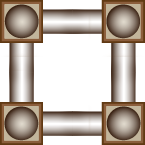
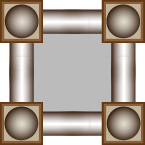
Working on the Shop
-Changed the border1 image to include a background fill, and updated the css to properly render it
-Pulled all the database data for the stuff in the shop, and sent it to the template to be looped over and output into tables. It looks really ugly right now, but getting some functionality in place at least.

Changed region(s): [[0.2207, 0.2207, 0.7724, 0.7724]]

diff --git a/static/css/store.css b/static/css/store.css
@@ -1,32 +1,14 @@
-#store_window_border
-    {
-    position: absolute;
-    top:0;
-    bottom: 0;
-    left: 0;
-    right: 0;
-    margin: auto;
-
-    width:  550px;
-    height: 585px;
-    border: solid 25px transparent;
-    -webkit-border-image: url("../img/border1.png") 45 45 stretch; /* Safari 3.1-5 */
-    -o-border-image: url("../img/border1.png") 45 45 stretch; /* Opera 11-12.1 */
-    border-image: url("../img/border1.png") 45 45 stretch;
-    }
-
 #store_window
     {
     position: absolute;
-    top:0;
-    bottom: 0;
+    text-align: center;
+    z-index: -1;
     left: 0;
     right: 0;
     margin: auto;
-
-    width:  565px;
-    height: 600px;
-    text-align: center;
-
-    background-color: #bbbbbb;
+    width:  650px;
+    border: solid 25px #bbbbbb;
+    -webkit-border-image: url("../img/border1.png") 45 45 fill stretch; /* Safari 3.1-5 */
+    -o-border-image: url("../img/border1.png") 45 45 fill stretch; /* Opera 11-12.1 */
+    border-image: url("../img/border1.png") 45 45 fill stretch;
     }

diff --git a/templates/store.html b/templates/store.html
@@ -6,7 +6,39 @@
 {% block content %}
     <div id="store_window">
         <h1>Welcome to the corner store</h1>
+        <hr />
+        Breeding pellets
+        <table>
+        {% for pellet in breeding_pellets %}
+            <tr>
+                <td>{{ pellet.type }}</td>
+                <td>{{ pellet.description }}</td>
+            </tr>
+        {% endfor %}
+        </table>
+        <br />
+
+        Fences
+        <table>
+        {% for fence in fences %}
+            <tr>
+                <td>{{ fence.name }}</td>
+                <td>{{ fence.description }}</td>
+            </tr>
+        {% endfor %}
+        </table>
+        <br />
+
+        Grass seed
+        <table>
+        {% for seed in grasseed %}
+            <tr>
+                <td>{{ seed.color }}</td>
+                <td>{{ seed.svg | safe }}</td>
+            </tr>
+        {% endfor %}
+        </table>
 
     </div>
-    <div id="store_window_border"></div>
+
 {% endblock content %}

diff --git a/static/css/farm.css b/static/css/farm.css
@@ -14,6 +14,19 @@
     height:   650px;
 }
 
+#farm_box_border {
+    position: absolute;
+    top: 35px;
+    left: -15px;
+    width: 630px;
+    height: 630px;
+    border: solid 25px transparent;
+    -webkit-border-image: url("../img/border1.png") 45 45 stretch; /* Safari 3.1-5 */
+    -o-border-image: url("../img/border1.png") 45 45 stretch; /* Opera 11-12.1 */
+    border-image: url("../img/border1.png") 45 45 stretch;
+    z-index: 25;
+}
+
 #visible_top {
     position: absolute;
     top:     50px;

diff --git a/templates/farm.html b/templates/farm.html
@@ -208,8 +208,9 @@
         <div id="visible_bottom"></div>
         <div id="visible_left"></div>
         <div id="visible_right"></div>
-        <div id="farm_box"><span class="evopic"></span></div>
 
+        <div id="farm_box"><span class="evopic"></span></div>
+        <div id="farm_box_border"></div>
 
     <div id="dev_box">Hello!</div>
 

diff --git a/views/the_shop.py b/views/the_shop.py
@@ -4,6 +4,7 @@ from django.contrib.auth.models import User
 from django.contrib.auth import authenticate, login
 
 from evp.models import *
+from the_shop.models import *
 from resources.Evo import Evopic
 from resources import mutation, breed
 import re
@@ -14,6 +15,10 @@ from django.contrib.auth.decorators import login_required
 def store(request):
     if request.user.is_authenticated():
         user_id = request.user.id
+        breeding_pellets = BreedingPellets.objects.all()
+        fences = Fences.objects.all()
+        grasseed = GrassSeed.objects.all()
+        return render(request, 'templates/store.html', {"user_id": user_id, "breeding_pellets": breeding_pellets,
+                                                        "fences": fences, "grasseed": grasseed})
     else:
         return HttpResponse("Something has gone wrong... Can't find your user name in farm view.")
-    return render(request, 'templates/store.html', {"user_id": user_id})
